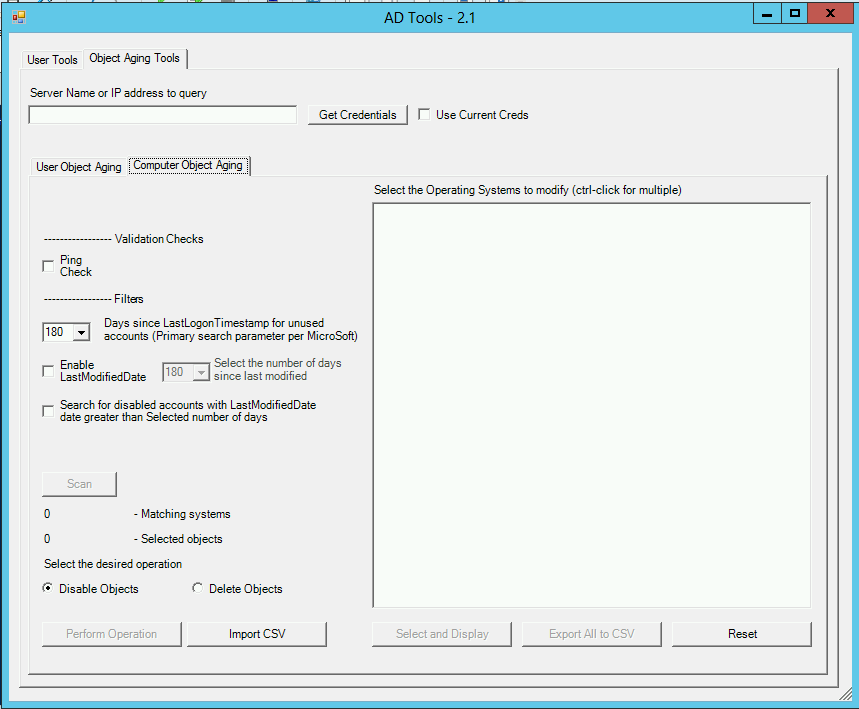
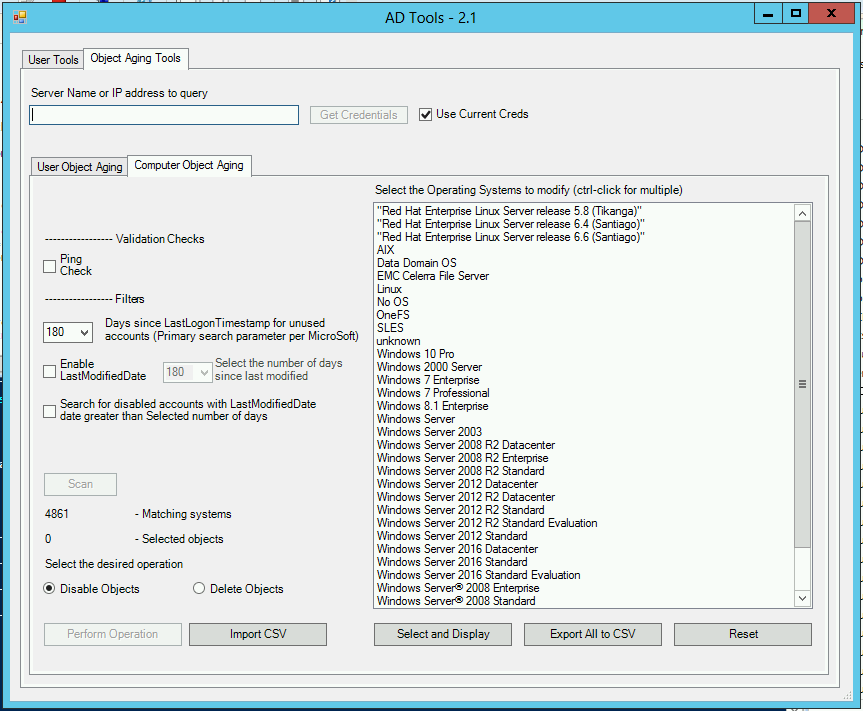
Added some documentation, not much but a little

diff --git a/README.md b/README.md
@@ -1,1 +1,13 @@
 # AD-Tools
+
+A tabbed application for object management and investigation.  
+
+
+Shown here is the Computer Object Tool for reporting and managing old computer objects.  
+<img src="images/COT.png" width="600" height="495" alt="">  
+
+Select the systems you want to view and click 'Select and Display' at the bottom  
+
+<img src="images/COT_selected.png" width="600" height="495" alt="">
+
+
